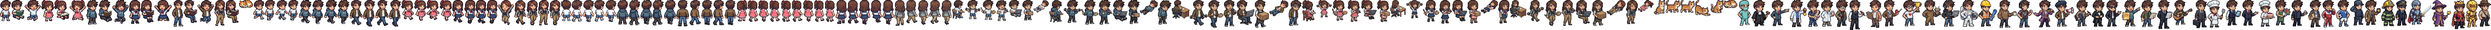
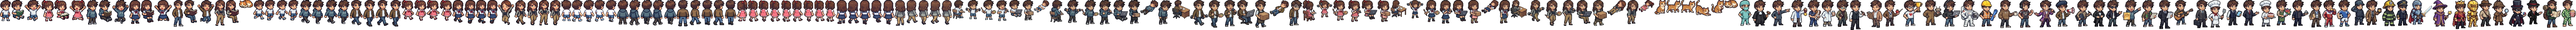
v0.6.2: 아들 직업 의상 46~50 추가 (50종 완성)
Claude-Session: https://claude.ai/code/session_01VYXQzVYR4chXqJ2j5munDD

diff --git a/src/components/TitleScreen.tsx b/src/components/TitleScreen.tsx
@@ -60,7 +60,7 @@ export function TitleScreen({ onStart }: { onStart: () => void }) {
           <PixelButton color="bg-sky" onClick={() => setMode('book')}>
             👑 엔딩 도감 ({unlockedEndings.length}/{ENDINGS.length})
           </PixelButton>
-          <p className="mt-2 text-[10px] text-white/60">v0.6.1 · 아들 직업 의상</p>
+          <p className="mt-2 text-[10px] text-white/60">v0.6.2 · 아들 직업 의상 50종</p>
         </div>
       )}
 

diff --git a/src/__tests__/engine.test.ts b/src/__tests__/engine.test.ts
@@ -320,7 +320,7 @@ describe('korean labels & icons', () => {
 });
 
 describe('job costumes', () => {
-  it('son has costume sprites for endings 01~45', () => {
-    for (let i = 1; i <= 45; i++) expect(Object.keys(atlas)).toContain(`JOB_END_${String(i).padStart(2, '0')}_SON`);
+  it('son has costume sprites for all 50 endings', () => {
+    for (let i = 1; i <= 50; i++) expect(Object.keys(atlas)).toContain(`JOB_END_${String(i).padStart(2, '0')}_SON`);
   });
 });

diff --git a/scripts/make-sprite-requests.py b/scripts/make-sprite-requests.py
@@ -252,7 +252,7 @@ for i,(pri,sid,fname,nr,nc,title,items,prompt,_) in enumerate(sheets):
         c.fill = PatternFill('solid', fgColor=PRI_FILL[pri])
     ws2.cell(row=r, column=7, value=f"=COUNTIFS('전체 스프라이트'!$A:$A,B{r},'전체 스프라이트'!$I:$I,\"필수\")")
     ws2.cell(row=r, column=8, value=f"=COUNTIFS('전체 스프라이트'!$A:$A,B{r},'전체 스프라이트'!$I:$I,\"선택\")")
-    done = ws2.cell(row=r, column=9, value='O' if sid in ('F1', 'F2', 'F3', 'F4', 'B-SON', 'B-DAUGHTER', 'P-SON', 'P-DAUGHTER', 'N2', 'U1', 'J1-SON', 'J2-SON', 'J3-SON', 'J4-SON', 'J5-SON') else None)
+    done = ws2.cell(row=r, column=9, value='O' if sid in ('F1', 'F2', 'F3', 'F4', 'B-SON', 'B-DAUGHTER', 'P-SON', 'P-DAUGHTER', 'N2', 'U1', 'J1-SON', 'J2-SON', 'J3-SON', 'J4-SON', 'J5-SON', 'J6-SON') else None)
     done.fill = INPUT_FILL
     dv.add(done)
     ws2.row_dimensions[r].height = 150

diff --git a/scripts/build-sprites.py b/scripts/build-sprites.py
@@ -475,6 +475,7 @@ JOB_SHEETS = {
         ('assets-src/job-son-3.png', {'19': (0, 0), '20': (0, 1), '21': (0, 2), '22': (1, 0), '23': (1, 1), '24': (1, 2), '25': (2, 0), '26': (2, 1), '27': (2, 5)}),
         ('assets-src/job-son-4.png', {'28': (0, 0), '29': (0, 1), '30': (0, 4), '31': (1, 1), '32': (1, 2), '33': (1, 3), '34': (2, 0), '35': (2, 2), '36': (2, 5)}),
         ('assets-src/job-son-5.png', {'37': (0, 0), '38': (0, 1), '39': (0, 2), '40': (1, 0), '41': (1, 2), '42': (1, 4), '43': (2, 0), '44': (2, 1), '45': (2, 3)}),
+        ('assets-src/job-son-6.png', {'46': (0, 0), '47': (0, 1), '48': (0, 3), '49': (2, 0), '50': (2, 2)}),
     ],
 }
 

diff --git a/CHANGELOG.md b/CHANGELOG.md
@@ -1,5 +1,14 @@
 # Changelog
 
+## v0.6.2 — 아들 직업 의상 50종 완성
+
+### 추가
+- `assets-src/job-son-6.png`에서 46~50번 선택
+  - 46 미스터리 탐정(사냥모자+돋보기), 47 괴도(실크햇+가면+망토+보석), 48 지하세계 보스(빨간 띠 중절모+정장),
+    49 세계여행가(배낭+지도), 50 방구석 한량(잠옷+팝콘)
+  - 시트의 나머지 칸(기존 캐릭터를 다시 그린 그림)은 사용하지 않음
+- 아들은 50종 엔딩 모두 직업 의상 그림으로 표시
+
 ## v0.6.1 — 아들 직업 의상 45종
 
 ### 추가
